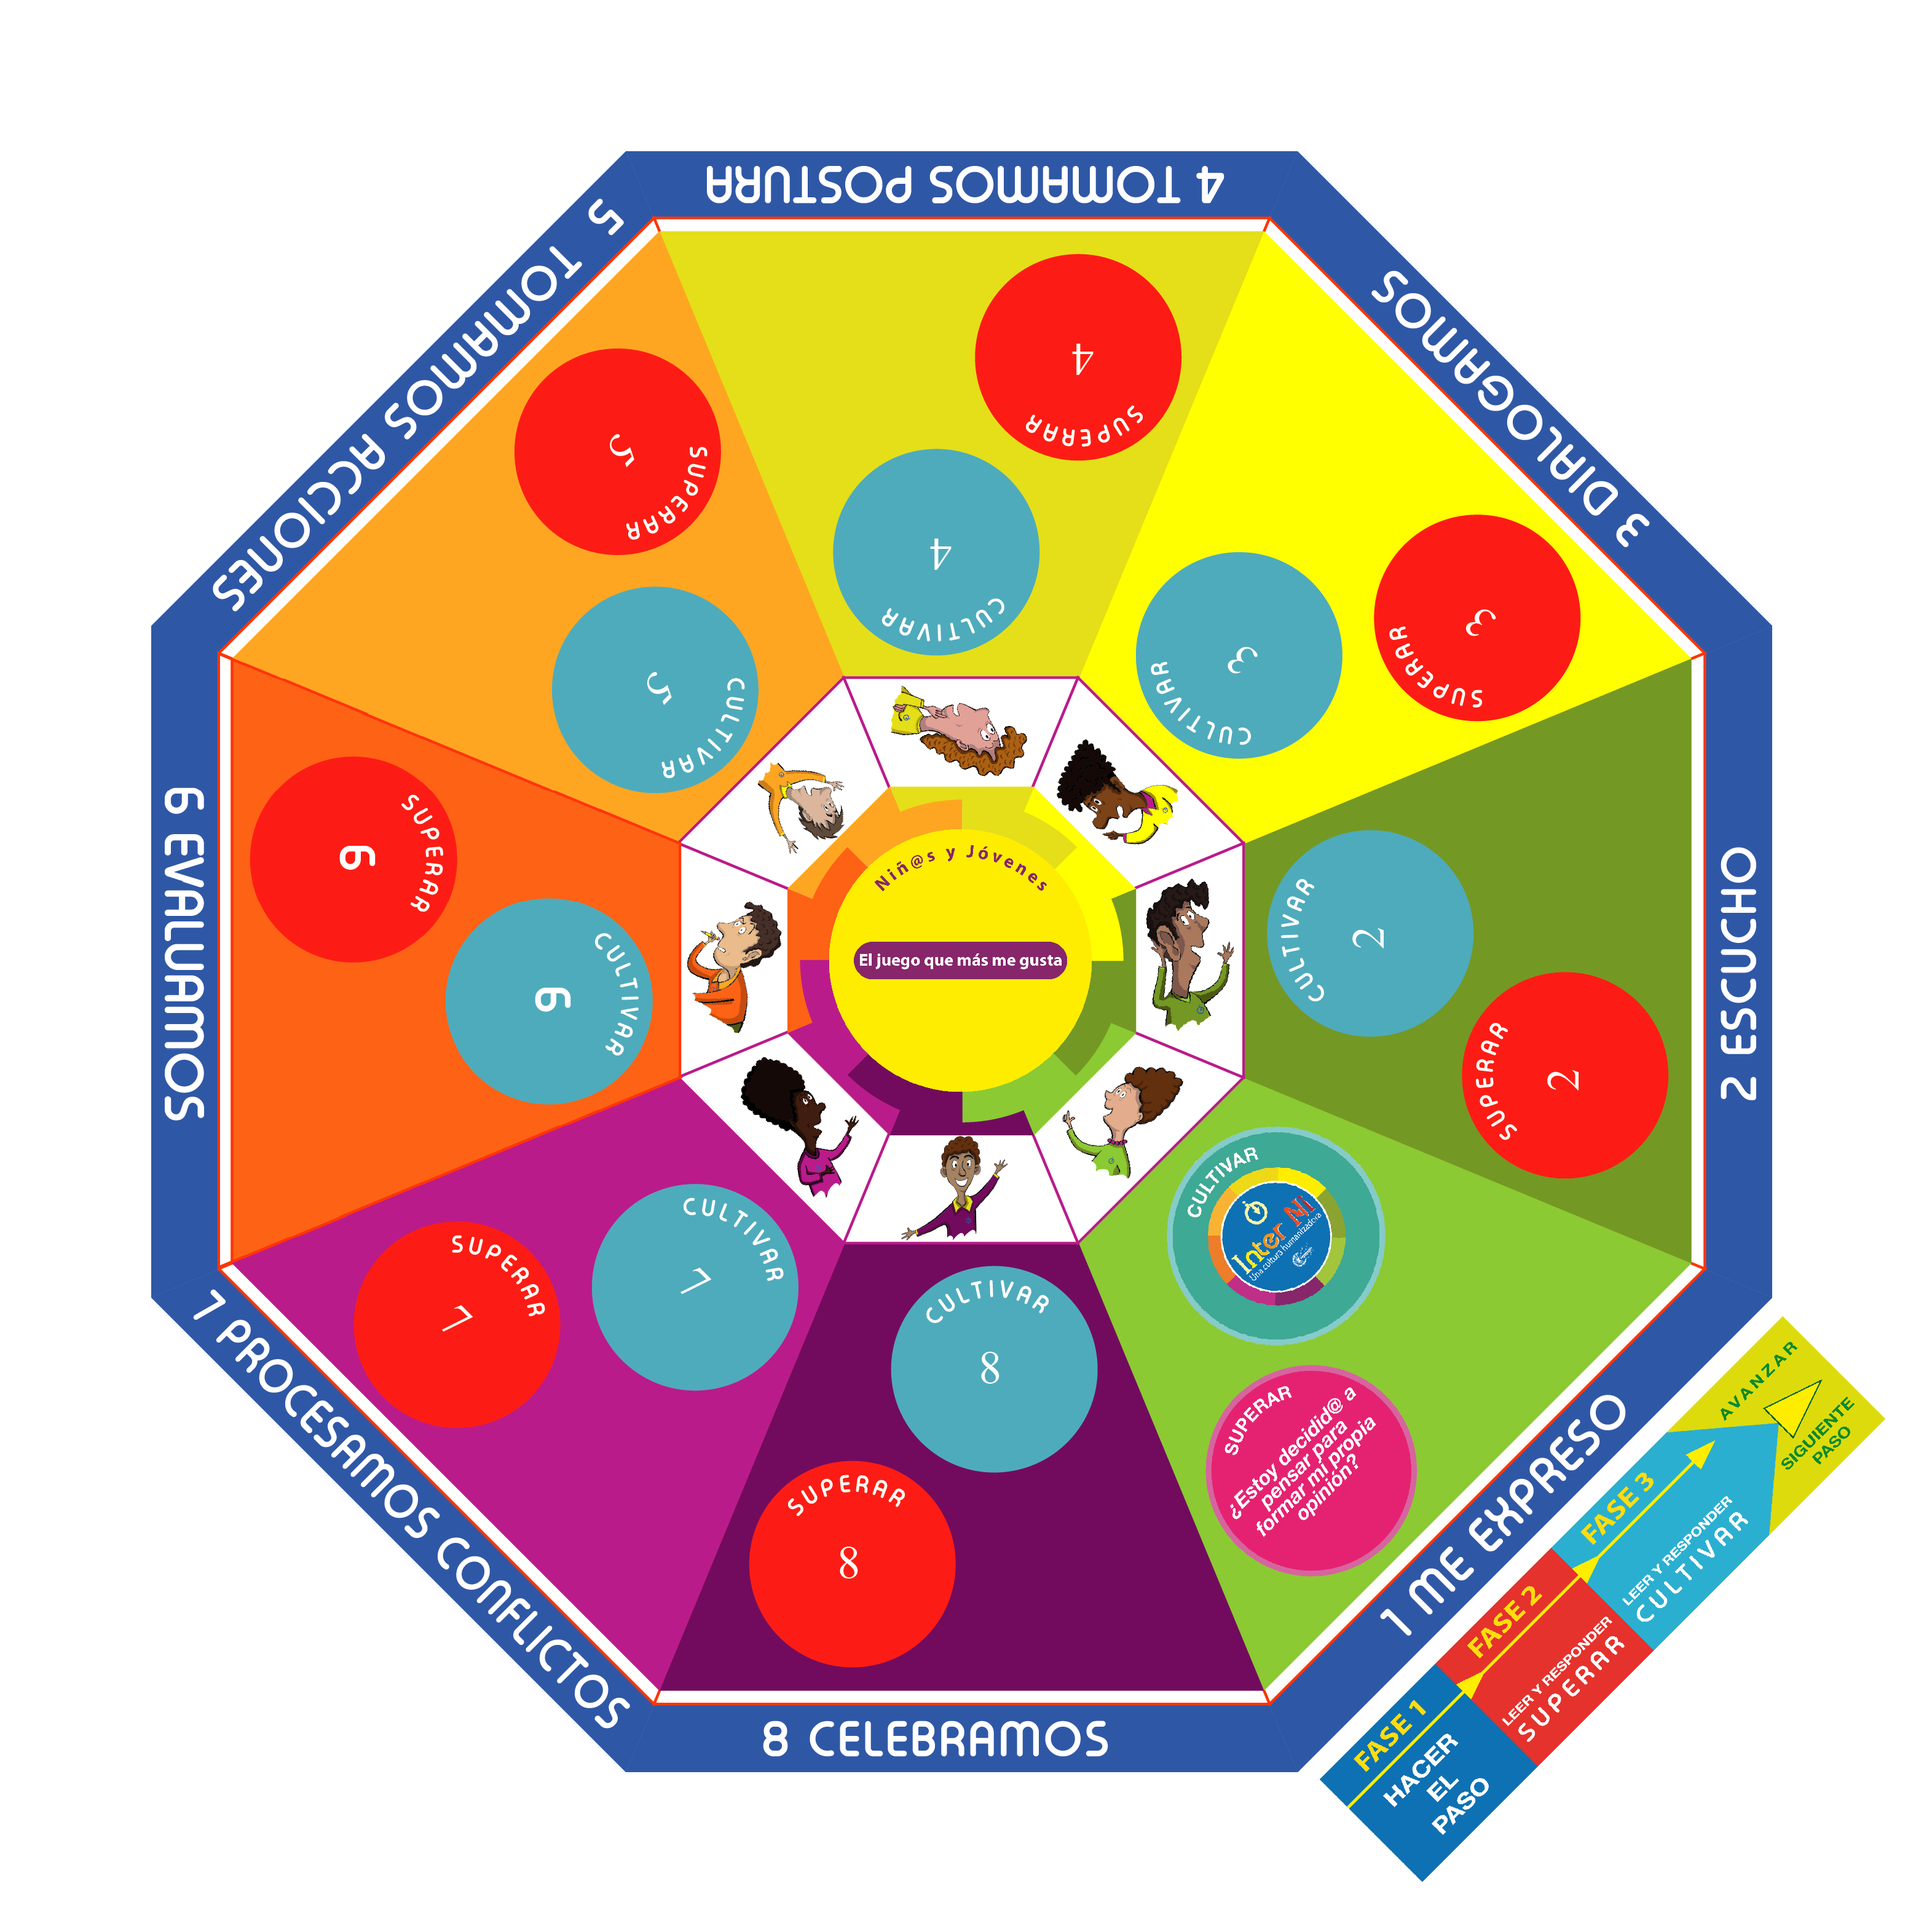
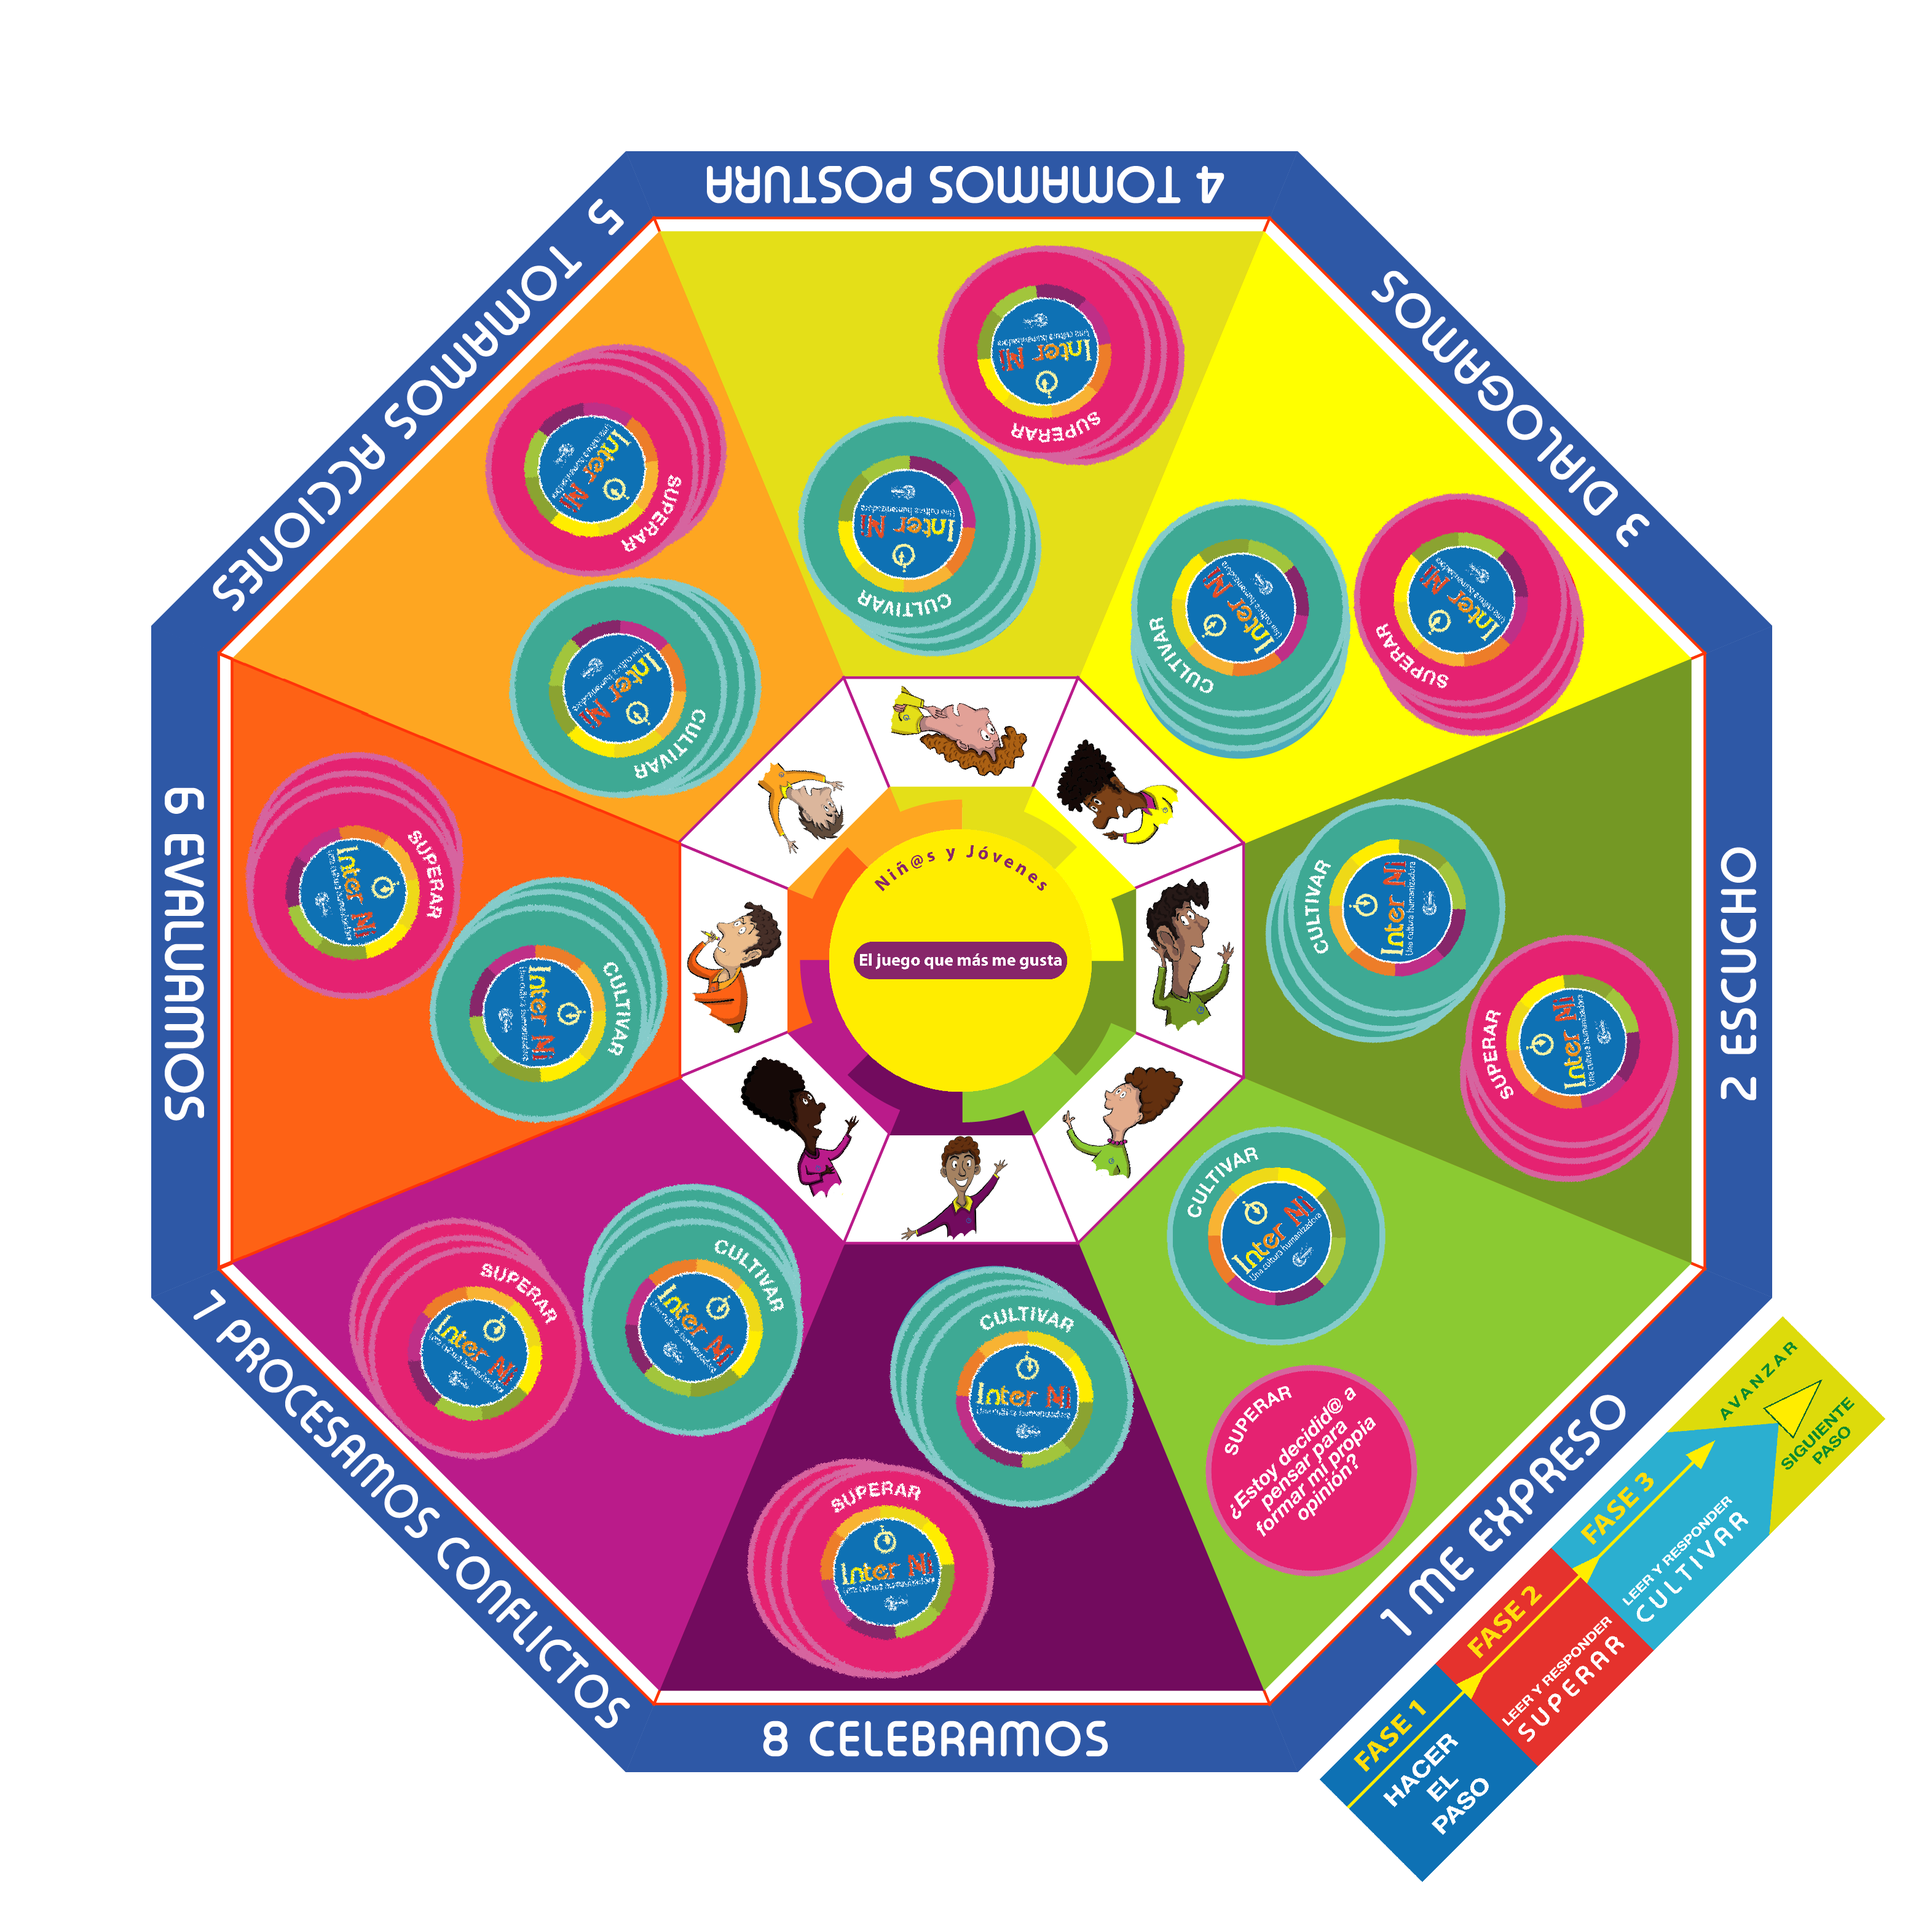
Version 9.0

Changed region(s): [[0.124, 0.124, 0.8987, 0.6198], [0.3719, 0.6508, 0.5888, 0.8987], [0.155, 0.5888, 0.4339, 0.7748]]

diff --git a/index.html b/index.html
@@ -365,7 +365,7 @@
                         <div class="scene scene--card">
                             <div class="card">
                                 <div class="card__face card__face--front">
-                                    <img src="img/culf2.png" alt="">
+                                    <img src="img/culf1.png" alt="">
                                 </div>
                                 <div class="card__face card__face--back">
                                     <img src="img/culb2.png" alt="">
@@ -377,7 +377,7 @@
                         <div class="scene scene--card">
                             <div class="card">
                                 <div class="card__face card__face--front">
-                                    <img src="img/culf3.png" alt="">
+                                    <img src="img/culf1.png" alt="">
                                 </div>
                                 <div class="card__face card__face--back">
                                     <img src="img/culb3.png" alt="">
@@ -389,7 +389,7 @@
                         <div class="scene scene--card">
                             <div class="card">
                                 <div class="card__face card__face--front">
-                                    <img src="img/culf4.png" alt="">
+                                    <img src="img/culf1.png" alt="">
                                 </div>
                                 <div class="card__face card__face--back">
                                     <img src="img/culb4.png" alt="">
@@ -417,7 +417,7 @@
                         <div class="scene scene--card">
                             <div class="card">
                                 <div class="card__face card__face--front">
-                                    <img src="img/supf2.png" alt="">
+                                    <img src="img/supf1.png" alt="">
                                 </div>
                                 <div class="card__face card__face--back">
                                     <img src="img/supb2.png" alt="">
@@ -429,7 +429,7 @@
                         <div class="scene scene--card">
                             <div class="card">
                                 <div class="card__face card__face--front">
-                                    <img src="img/supf3.png" alt="">
+                                    <img src="img/supf1.png" alt="">
                                 </div>
                                 <div class="card__face card__face--back">
                                     <img src="img/supb3.png" alt="">
@@ -441,7 +441,7 @@
                         <div class="scene scene--card">
                             <div class="card">
                                 <div class="card__face card__face--front">
-                                    <img src="img/supf4.png" alt="">
+                                    <img src="img/supf1.png" alt="">
                                 </div>
                                 <div class="card__face card__face--back">
                                     <img src="img/supb4.png" alt="">
@@ -605,9 +605,105 @@
                             </div>
                         </div>
                     </div>
+                    <div class="mt-4 wow rotateIn col-lg-6" data-wow-delay="1.5s">
+                        <div class="sceneIt scene--card">
+                            <div class="card">
+                                <div class="card__face cardIt__face--front">
+                                    <img class="cardIt" src="img/TARJETAS DE INSTRUCCIONES REVERSO 1-00.png" alt="">
+                                </div>
+                                <div class="card__face card__face--back">
+                                    <img class="cardIt" src="img/TARJETAS DE INSTRUCCIONES-00.png" alt="">
+                                </div>
+                            </div>
+                        </div>
+                    </div>
+                    <div class="mt-4 wow rotateIn col-lg-6" data-wow-delay="1.5s">
+                        <div class="sceneIt scene--card">
+                            <div class="card">
+                                <div class="card__face cardIt__face--front">
+                                    <img class="cardIt" src="img/TARJETAS DE INSTRUCCIONES REVERSO 1-01.png" alt="">
+                                </div>
+                                <div class="card__face card__face--back">
+                                    <img class="cardIt" src="img/TARJETAS DE INSTRUCCIONES-01.png" alt="">
+                                </div>
+                            </div>
+                        </div>
+                    </div>
+                    <div class="mt-4 wow rotateIn col-lg-6" data-wow-delay="1.5s">
+                        <div class="sceneIt scene--card">
+                            <div class="card">
+                                <div class="card__face cardIt__face--front">
+                                    <img class="cardIt" src="img/TARJETAS DE INSTRUCCIONES REVERSO 1-02.png" alt="">
+                                </div>
+                                <div class="card__face card__face--back">
+                                    <img class="cardIt" src="img/TARJETAS DE INSTRUCCIONES-02.png" alt="">
+                                </div>
+                            </div>
+                        </div>
+                    </div>
+                    <div class="mt-4 wow rotateIn col-lg-6" data-wow-delay="1.5s">
+                        <div class="sceneIt scene--card">
+                            <div class="card">
+                                <div class="card__face cardIt__face--front">
+                                    <img class="cardIt" src="img/TARJETAS DE INSTRUCCIONES REVERSO-03.png" alt="">
+                                </div>
+                                <div class="card__face card__face--back">
+                                    <img class="cardIt" src="img/TARJETAS DE INSTRUCCIONES-03.png" alt="">
+                                </div>
+                            </div>
+                        </div>
+                    </div>
+                    <div class="mt-4 wow rotateIn col-lg-6" data-wow-delay="1.5s">
+                        <div class="sceneIt scene--card">
+                            <div class="card">
+                                <div class="card__face cardIt__face--front">
+                                    <img class="cardIt" src="img/TARJETAS DE INSTRUCCIONES REVERSO-04.png" alt="">
+                                </div>
+                                <div class="card__face card__face--back">
+                                    <img class="cardIt" src="img/TARJETAS DE INSTRUCCIONES-04.png" alt="">
+                                </div>
+                            </div>
+                        </div>
+                    </div>
+                    <div class="mt-4 wow rotateIn col-lg-6" data-wow-delay="1.5s">
+                        <div class="sceneIt scene--card">
+                            <div class="card">
+                                <div class="card__face cardIt__face--front">
+                                    <img class="cardIt" src="img/TARJETAS DE INSTRUCCIONES REVERSO-05.png" alt="">
+                                </div>
+                                <div class="card__face card__face--back">
+                                    <img class="cardIt" src="img/TARJETAS DE INSTRUCCIONES-05.png" alt="">
+                                </div>
+                            </div>
+                        </div>
+                    </div>
+                    <div class="mt-4 wow rotateIn col-lg-6" data-wow-delay="1.5s">
+                        <div class="sceneIt scene--card">
+                            <div class="card">
+                                <div class="card__face cardIt__face--front">
+                                    <img class="cardIt" src="img/TARJETAS DE INSTRUCCIONES REVERSO-06.png" alt="">
+                                </div>
+                                <div class="card__face card__face--back">
+                                    <img class="cardIt" src="img/TARJETAS DE INSTRUCCIONES-06.png" alt="">
+                                </div>
+                            </div>
+                        </div>
+                    </div>
+                    <div class="mt-4 wow rotateIn col-lg-6" data-wow-delay="1.5s">
+                        <div class="sceneIt scene--card">
+                            <div class="card">
+                                <div class="card__face cardIt__face--front">
+                                    <img class="cardIt" src="img/TARJETAS DE INSTRUCCIONES REVERSO-07.png" alt="">
+                                </div>
+                                <div class="card__face card__face--back">
+                                    <img class="cardIt" src="img/TARJETAS DE INSTRUCCIONES-07.png" alt="">
+                                </div>
+                            </div>
+                        </div>
+                    </div>
                 </div>
             </div>
-            <h3>Y MUCHAS MÁS... ¡PARA EXPLORARSE EL UNO AL OTRO, DIVERTIRSE Y PASAR EL RATO!</h3>
+            <h3 class="wow fadeIn" data-wow-delay="1.5s">Y MUCHAS MÁS... ¡PARA EXPLORARSE EL UNO AL OTRO, DIVERTIRSE Y PASAR EL RATO!</h3>
         </div>
     </section>
 

diff --git a/css/styles.css b/css/styles.css
@@ -21,7 +21,7 @@ h3 {
     font-weight: 900;
 }
 
-.container-fluid{
+.container-fluid {
     padding: 0;
 }
 
@@ -75,7 +75,7 @@ h3 {
     width: 60px;
 }
 
-.cocreaccion{
+.cocreaccion {
     width: 90px;
     margin-left: 20px;
 }
@@ -191,8 +191,8 @@ h3 {
 
 #personajes h3 {
     color: #fff;
-  }
-  
+}
+
 #personajes {
     margin-top: 100px;
     background-color: #2e58a6;
@@ -362,6 +362,8 @@ h3 {
     width: 40%;
 }
 
+/*#### FLIP EFFECT FOR LITTLE CARDS ####*/
+
 .scene {
     width: 200px;
     height: 260px;
@@ -410,14 +412,31 @@ h3 {
     transform: rotateY(180deg);
 }
 
+/*#### FLIP EFFECT FOR INSTRUCTION CARDS ####*/
+
+.sceneIt {
+    width: 315px;
+    height: 420px;
+    margin: 40px 0;
+    perspective: 600px;
+    margin: 0 auto;
+}
+
+.cardIt {
+    width: 315px !important;
+    height: 420px;
+    border-radius: 3px;
+}
+
+
 /*############### FOOTER ################*/
 
-footer{
+footer {
     margin-top: 100px;
     background-color: #2e58a6;
     padding: 1%;
 }
 
-footer p{
+footer p {
     color: #fff;
 }
